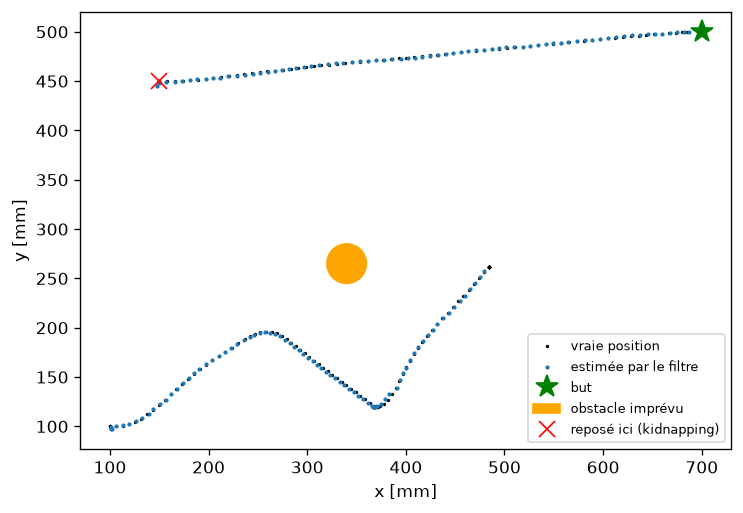
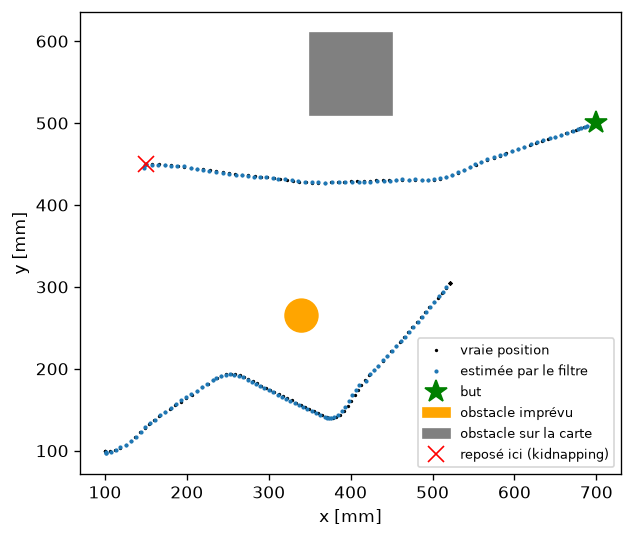
controle: planificateur de Robin branché dans main.py, boîte sur la carte en simulation

diff --git a/projet_thymio/controle/main.py b/projet_thymio/controle/main.py
@@ -10,10 +10,12 @@
     5. on envoie les vitesses aux moteurs
 
 Les modules ne s'échangent que les structures de interfaces.py :
-    vision(t) donne un PoseMeasurement, plan(start, goal) donne un Path
+    vision(t) donne un PoseMeasurement, plan(estimation, goal) donne un Path
     (vision peut redonner la dernière image : on regarde son t pour savoir si elle est nouvelle)
-En attendant la caméra de Sujith et le planificateur de Robin on utilise les faux
-de fake_modules.py. Pour mettre les vrais il suffit de changer vision et plan dans main().
+Le planificateur est celui de Robin (planification/global_navigation.py). Il lui faut la
+carte (un Environment) que donnera la caméra de Sujith. En attendant, en simulation on
+utilise la fausse caméra et la fausse carte de fake_modules.py. Sur le vrai robot sans
+caméra on n'a pas de carte, donc on va en ligne droite.
 
     (à lancer depuis le dossier projet_thymio/)
     python -m controle.main --sim                       # tout simulé : obstacle, QR caché, kidnapping
@@ -27,7 +29,8 @@ import time
 
 from filtre.filter_node import FilterNode
 from controle import controller, local_avoidance, messages, thymio
-from controle.fake_modules import FakeCamera, StartOnlyCamera, straight_line_plan
+from controle.fake_modules import FakeCamera, StartOnlyCamera, fake_map, straight_line_plan
+from planification.global_navigation import GlobalPlanner
 
 DT = 0.1            # durée d'un pas en secondes
 MAX_TIME = 90.0     # au bout de 90 s on arrête tout, au cas où
@@ -95,7 +98,7 @@ def run(robot, vision, plan, goal, clock, sim=None, scenario=None):
 
         # 3. Chemin : on en redemande un au départ, après un évitement et après un kidnapping
         if need_path:
-            points = messages.path_points(plan(pose, goal))
+            points = messages.path_points(plan(estimate, goal))
             if points is None:
                 print(f"t={now - t0:5.1f}s  pas de chemin -> arrêt")
                 stop()
@@ -144,6 +147,8 @@ def wait(robot, step_start, sim):
 # Scénario pour tester en simulation
 SIM_START = (100.0, 100.0, 0.0)
 SIM_GOAL = (700.0, 500.0)
+SIM_ARENA = (1000.0, 700.0)              # taille de la zone (dans le cadre noir) en mm
+SIM_MAP_OBSTACLE = (400.0, 560.0, 50.0)  # une boîte connue, qui est sur la carte
 SIM_OBSTACLE = (340.0, 265.0, 20.0)      # un gobelet sur la ligne droite, qui n'est pas sur la carte
 SIM_HIDDEN = [(3.0, 6.0)]                # QR caché entre 3 et 6 s (en plein évitement)
 SIM_KIDNAP = (8.0, 10.0, (150.0, 450.0, 0.0))   # soulevé à 8 s, reposé à 10 s à cet endroit
@@ -158,7 +163,7 @@ def sim_scenario(t, sim):
         sim.put_down(new_pose)
 
 
-def save_plot(log, filename, goal, obstacle=None, kidnap_pose=None):
+def save_plot(log, filename, goal, obstacle=None, kidnap_pose=None, map_obstacle=None):
     try:
         import matplotlib
         matplotlib.use("Agg")
@@ -175,12 +180,15 @@ def save_plot(log, filename, goal, obstacle=None, kidnap_pose=None):
     ax.plot(*goal, "*", ms=14, color="green", label="but")
     if obstacle is not None:
         ax.add_patch(plt.Circle(obstacle[:2], obstacle[2], color="orange", label="obstacle imprévu"))
+    if map_obstacle is not None:
+        x, y, r = map_obstacle
+        ax.add_patch(plt.Rectangle((x - r, y - r), 2 * r, 2 * r, color="gray", label="obstacle sur la carte"))
     if kidnap_pose is not None:
         ax.plot(*kidnap_pose[:2], "x", ms=10, color="red", label="reposé ici (kidnapping)")
     ax.set_aspect("equal")
     ax.set_xlabel("x [mm]")
     ax.set_ylabel("y [mm]")
-    ax.legend(fontsize=8)
+    ax.legend(fontsize=8, loc="lower right")
     fig.savefig(filename, dpi=120, bbox_inches="tight")
     print(f"figure enregistrée : {filename}")
 
@@ -198,16 +206,19 @@ def main():
 
     if args.sim:
         from controle.simulator import SimThymio
-        robot = SimThymio(start_pose=SIM_START, obstacles=[SIM_OBSTACLE], seed=1)
+        robot = SimThymio(start_pose=SIM_START, obstacles=[SIM_MAP_OBSTACLE, SIM_OBSTACLE], seed=1)
         sim, clock, scenario = robot, (lambda: robot.t), sim_scenario
         vision = FakeCamera(robot, hidden=SIM_HIDDEN)            # à remplacer par la caméra de Sujith
         goal = tuple(args.goal) if args.goal else SIM_GOAL
+        planner = GlobalPlanner()                                 # le planificateur de Robin
+        planner.set_environment(fake_map(SIM_ARENA, [SIM_MAP_OBSTACLE], goal))   # carte : à remplacer par celle de Sujith
+        plan = planner.plan
     else:
         robot = thymio.Thymio()
         sim, clock, scenario = None, time.monotonic, None
         vision = StartOnlyCamera(tuple(args.start))               # à remplacer par la caméra de Sujith
         goal = tuple(args.goal) if args.goal else (400.0, 0.0)
-    plan = straight_line_plan                                     # à remplacer par le planificateur de Robin
+        plan = straight_line_plan                                 # pas de carte sans caméra : ligne droite
 
     try:
         log = run(robot, vision, plan, goal, clock, sim, scenario)
@@ -219,7 +230,8 @@ def main():
         print(f"vraie position finale : {math.hypot(x - goal[0], y - goal[1]):.0f} mm du but")
         print("collision !" if sim.collides() else "aucune collision")
     if args.plot:
-        save_plot(log, args.plot, goal, SIM_OBSTACLE if sim else None, SIM_KIDNAP[2] if sim else None)
+        save_plot(log, args.plot, goal, SIM_OBSTACLE if sim else None, SIM_KIDNAP[2] if sim else None,
+                  SIM_MAP_OBSTACLE if sim else None)
 
 
 if __name__ == "__main__":

diff --git a/projet_thymio/controle/fake_modules.py b/projet_thymio/controle/fake_modules.py
@@ -1,15 +1,16 @@
-"""Fausse caméra et faux planificateur, pour tester main.py en attendant ceux de Sujith et Robin.
+"""Fausse caméra, fausse carte et faux planificateur, pour tester main.py sans la caméra de Sujith.
 
 Ils renvoient exactement les mêmes structures que interfaces.py, donc le jour où
 les vrais sont prêts on les met à la place dans main.py et le reste ne change pas.
 
     vision(t) donne un PoseMeasurement (comme fera la caméra de Sujith)
-    plan(start, goal) donne un Path (comme fera le planificateur de Robin)
+    fake_map(...) donne un Environment (la carte que fera la caméra de Sujith)
+    straight_line_plan(estimation, goal) donne un Path (quand on n'a pas de carte)
 """
 
 import random
 
-from interfaces import Path, PoseMeasurement
+from interfaces import Environment, Path, PoseMeasurement
 from controle import motion_model
 
 CAMERA_STD = (2.0, 2.0, 0.02)   # bruit de la fausse caméra : 2 mm, 2 mm et 0,02 rad
@@ -58,6 +59,16 @@ class StartOnlyCamera:
         return PoseMeasurement(t=t, visible=True, x=x, y=y, theta=theta)
 
 
-def straight_line_plan(start, goal):
+def fake_map(arena, round_obstacles, goal):
+    """Fausse carte pour le planificateur de Robin.
+
+    arena = (largeur, hauteur) en mm. Le simulateur ne connaît que des obstacles ronds
+    (x, y, rayon) : sur la carte on met le carré autour de chacun.
+    """
+    squares = [[(x - r, y - r), (x + r, y - r), (x + r, y + r), (x - r, y + r)] for x, y, r in round_obstacles]
+    return Environment(t=0.0, width_mm=arena[0], height_mm=arena[1], obstacles=squares, goal=tuple(goal))
+
+
+def straight_line_plan(estimate, goal):
     """Faux planificateur : ligne droite du robot jusqu'au but (comme si la carte était vide)."""
-    return Path(t=0.0, waypoints=[tuple(start[:2]), tuple(goal)], valid=True)
+    return Path(t=estimate.t, waypoints=[(estimate.x, estimate.y), tuple(goal)], valid=True)

diff --git a/projet_thymio/tests/test_controle.py b/projet_thymio/tests/test_controle.py
@@ -67,11 +67,14 @@ def test_messages():
 
 
 def test_main_loop_simulated():
-    """Boucle complète en simulation : obstacle imprévu, QR caché 3 s, kidnapping."""
+    """Boucle complète en simulation avec le planificateur de Robin : boîte sur la carte,
+    obstacle imprévu, QR caché 3 s, kidnapping."""
     from controle import main
-    robot = SimThymio(start_pose=main.SIM_START, obstacles=[main.SIM_OBSTACLE], seed=1)
+    robot = SimThymio(start_pose=main.SIM_START, obstacles=[main.SIM_MAP_OBSTACLE, main.SIM_OBSTACLE], seed=1)
     vision = main.FakeCamera(robot, hidden=main.SIM_HIDDEN)
-    log = main.run(robot, vision, main.straight_line_plan, main.SIM_GOAL, lambda: robot.t, robot, main.sim_scenario)
+    planner = main.GlobalPlanner()
+    planner.set_environment(main.fake_map(main.SIM_ARENA, [main.SIM_MAP_OBSTACLE], main.SIM_GOAL))
+    log = main.run(robot, vision, planner.plan, main.SIM_GOAL, lambda: robot.t, robot, main.sim_scenario)
     x, y, _ = robot.true_pose
     assert math.hypot(x - main.SIM_GOAL[0], y - main.SIM_GOAL[1]) < 40.0
     assert not robot.collides()

diff --git a/projet_thymio/controle/README.md b/projet_thymio/controle/README.md
@@ -9,7 +9,7 @@ Tout a été testé sur le vrai robot (sauf la partie caméra, en attendant cell
 | Fichier | À quoi il sert |
 |---|---|
 | `main.py` | La boucle principale du projet : caméra, filtre de Matéo, chemin de Robin, suivi + évitement, moteurs. Elle gère aussi le kidnapping, le QR caché et le nouveau chemin après un évitement. |
-| `fake_modules.py` | Une fausse caméra et un faux planificateur, en attendant les vrais. Ils renvoient les mêmes structures que `interfaces.py`. |
+| `fake_modules.py` | Une fausse caméra, une fausse carte et un planificateur en ligne droite (quand on n'a pas de carte). Ils renvoient les mêmes structures que `interfaces.py`. |
 | `messages.py` | Le seul fichier qui lit ou fabrique les structures de `interfaces.py` (PoseEstimate, Path, ControlInput). |
 | `motion_model.py` | Les valeurs mesurées du robot, la conversion unités Thymio / mm/s, l'odométrie. |
 | `thymio.py` | Le seul fichier qui parle au robot (tdmclient). |
@@ -25,7 +25,7 @@ Les tests sont dans `tests/test_controle.py`.
 ## Lancer (depuis le dossier `projet_thymio/`)
 
 ```bash
-python -m controle.main --sim --plot data/main_sim.png   # tout simulé : obstacle, QR caché, kidnapping
+python -m controle.main --sim --plot data/main_sim.png   # tout simulé : boîte sur la carte, obstacle imprévu, QR caché, kidnapping
 python -m controle.main --reel --goal 400 0              # vrai robot sans caméra, 40 cm tout droit
 python -m controle.demo_mouvement --sim                  # carré de 40 cm sur le faux robot
 python -m controle.calibration vitesse                   # puis rotation, prox, sol
@@ -36,20 +36,24 @@ Il faut `tdmclient` pour le vrai robot (`pip install tdmclient`) et Thymio Suite
 
 ## Brancher vos modules dans main.py
 
-Dans `main()` il y a deux lignes à changer quand vos modules sont prêts :
+Le planificateur de Robin est déjà branché : `planner = GlobalPlanner()`, `planner.set_environment(carte)`, puis `main.py` appelle `planner.plan(estimation, goal)` au départ, après un évitement et après un kidnapping.
 
-| Ligne actuelle | À remplacer par | Ce que la fonction doit faire |
+Il reste la caméra de Sujith. Dans `main()` il y a deux lignes à changer :
+
+| Ligne actuelle | À remplacer par | Ce que ça doit donner |
 |---|---|---|
 | `vision = FakeCamera(...)` | la caméra de Sujith | `vision(t)` renvoie un `PoseMeasurement` : la position du **milieu entre les deux roues** (pas le centre du QR) en mm et rad dans le repère de la carte, `t` = moment où l'image a été prise, `visible=False` si le QR est caché |
-| `plan = straight_line_plan` | le planificateur de Robin | `plan(start, goal)` renvoie un `Path` : seulement les coins du chemin, marge comprise, `valid=False` s'il n'y a pas de chemin. Il faut pouvoir l'appeler depuis n'importe quelle position (on recalcule après un évitement ou un kidnapping). |
+| `fake_map(...)` | la carte de Sujith | un `Environment` : taille de la zone dans le cadre noir, obstacles en polygones en mm **sans marge** (Robin l'ajoute), le but |
 
-Le filtre (`filtre.filter_node.FilterNode`) est déjà le vrai. À chaque pas, `main.py` fait `on_control`, puis `on_measurement` **seulement si c'est une nouvelle image** (on compare le `t` de l'image avec la précédente, donc Sujith peut redonner la même image tant qu'il n'en a pas de nouvelle), puis `step(time.monotonic())`. Tant que le filtre n'a pas vu le QR une première fois, `step` renvoie `None` et le robot reste arrêté. Après un kidnapping, on crée un nouveau `FilterNode`, qui reprend la position de la prochaine image de la caméra.
+Sur le vrai robot sans caméra (`--reel`) on n'a pas de carte, donc on garde la ligne droite (`straight_line_plan`).
+
+Le filtre (`filtre.filter_node.FilterNode`) est déjà le vrai. À chaque pas, `main.py` fait `on_control`, puis `on_measurement` **seulement si c'est une nouvelle image** (on compare le `t` de l'image avec la précédente, donc Sujith peut redonner la même image tant qu'il n'en a pas de nouvelle), puis `step(time.monotonic())`. Tant que le filtre n'a pas vu le QR une première fois, `step` renvoie `None` et le robot reste arrêté. Le kidnapping est vu de deux façons : les capteurs de sol (robot soulevé, `thymio.is_lifted`) ou le filtre de Matéo (`kidnapped=True` quand la caméra ne colle plus à la prédiction 3 fois de suite). Dans les deux cas le robot s'arrête et on redemande un chemin. Quand il est reposé on crée un nouveau `FilterNode`, qui reprend la position de la prochaine image.
 
 ## Pour chacun
 
 **Matéo** : je t'envoie la vitesse **mesurée** des roues dans `ControlInput` (c'est ce que le robot fait vraiment, même pendant un évitement). Le robot avance et tourne en même temps (loi fluide), ta prédiction marche aussi avec ça. Valeurs mesurées à 80 mm/s : facteur 0,337, empattement 96,5 mm, sigma_v environ 3,6 mm/s, sigma_w environ 0,075 rad/s. Les sigma viennent des vitesses **mesurées** (motor.speed), pas de la consigne, et donnent la même chose en ligne droite et en rotation (environ 5 mm/s par roue). Le facteur est bon aussi en rotation : 720° réels pour 2 tours demandés. Avec ça ton filtre se trompe de 2 mm sur 40 cm sans caméra. Tout est dans le journal de calibration de `docs/CONTRAT_INTERFACES.md`.
 
-**Robin** : le robot fait des courbes (il avance et tourne en même temps), Matéo est OK, il faut juste que ça t'aille. La marge autour des obstacles doit faire au moins 8 cm (le robot fait 11 cm de large et il coupe un peu les virages, environ 1,5 cm). Envoie seulement les coins, pas chaque case de la grille, sinon le robot zigzague.
+**Robin** : ton planificateur est branché dans `main.py` et marche en simulation (contourne la boîte de la carte après le kidnapping, sans collision). Marge de 80 mm : le robot fait 11 cm de large (5,5 cm de chaque côté), il coupe les virages d'environ 1,5 cm, et à 60 mm les capteurs voyaient l'obstacle connu et lançaient l'évitement local pour rien.
 
 **Sujith** : la position doit être celle du milieu entre les roues (le trou au centre du robot, là où on met un feutre), pas le centre du QR. `thymio.is_lifted(lecture)` dit si le robot est soulevé, ça peut t'aider pour le kidnapping.
 
@@ -68,5 +72,6 @@ Le filtre (`filtre.filter_node.FilterNode`) est déjà le vrai. À chaque pas, `
 
 - Les obstacles ajoutés doivent être **clairs et hauts d'au moins 5 cm** (le noir renvoie mal l'infrarouge).
 - La carte est faite **une seule fois au début**, sinon la caméra ajoute l'obstacle à la carte et on ne voit plus l'évitement.
-- Pas d'obstacle à moins de 15 cm d'un coin du chemin.
+- Pas d'obstacle imprévu à moins de 15 cm d'un coin du chemin.
+- Le but doit être à au moins 8 cm du cadre noir et des obstacles de la carte, sinon le planificateur ne trouve pas de chemin (`valid=False`) et le robot ne bouge pas.
 - Débrancher le câble de charge pendant les essais, il fausse la vitesse mesurée.
